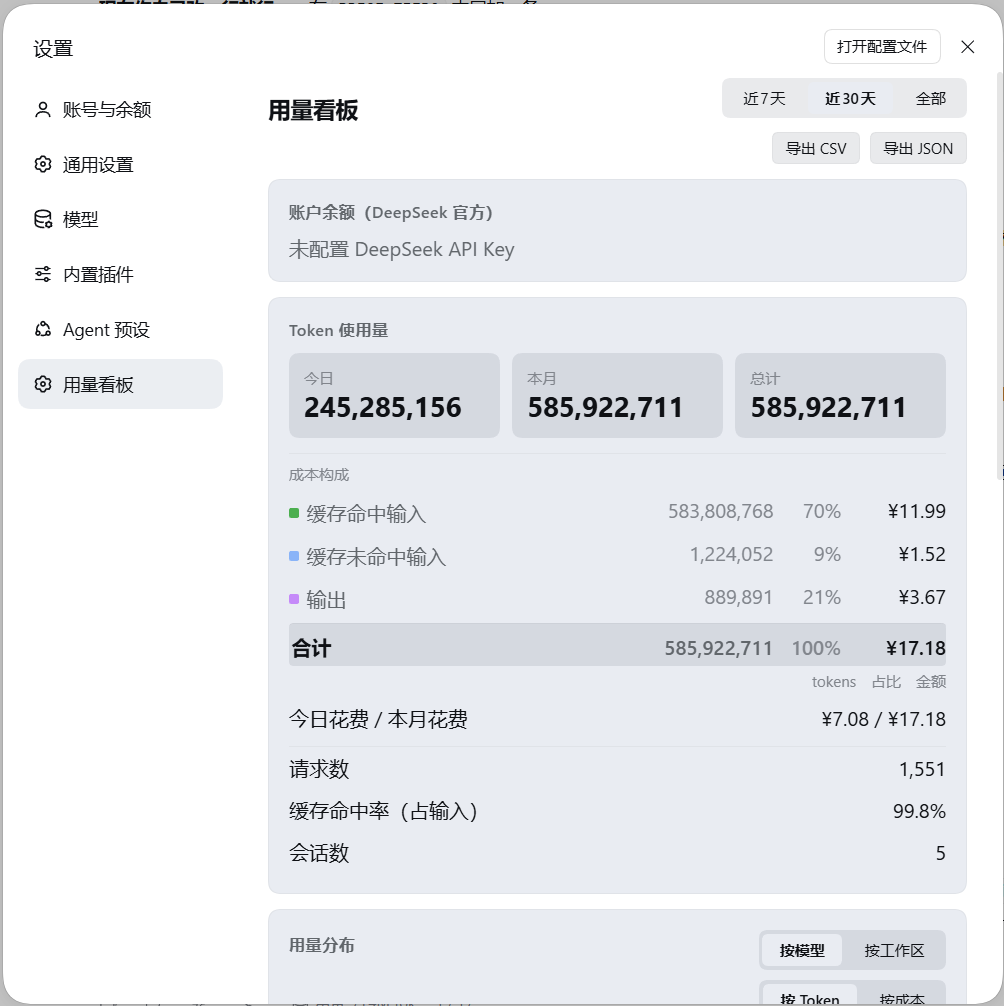
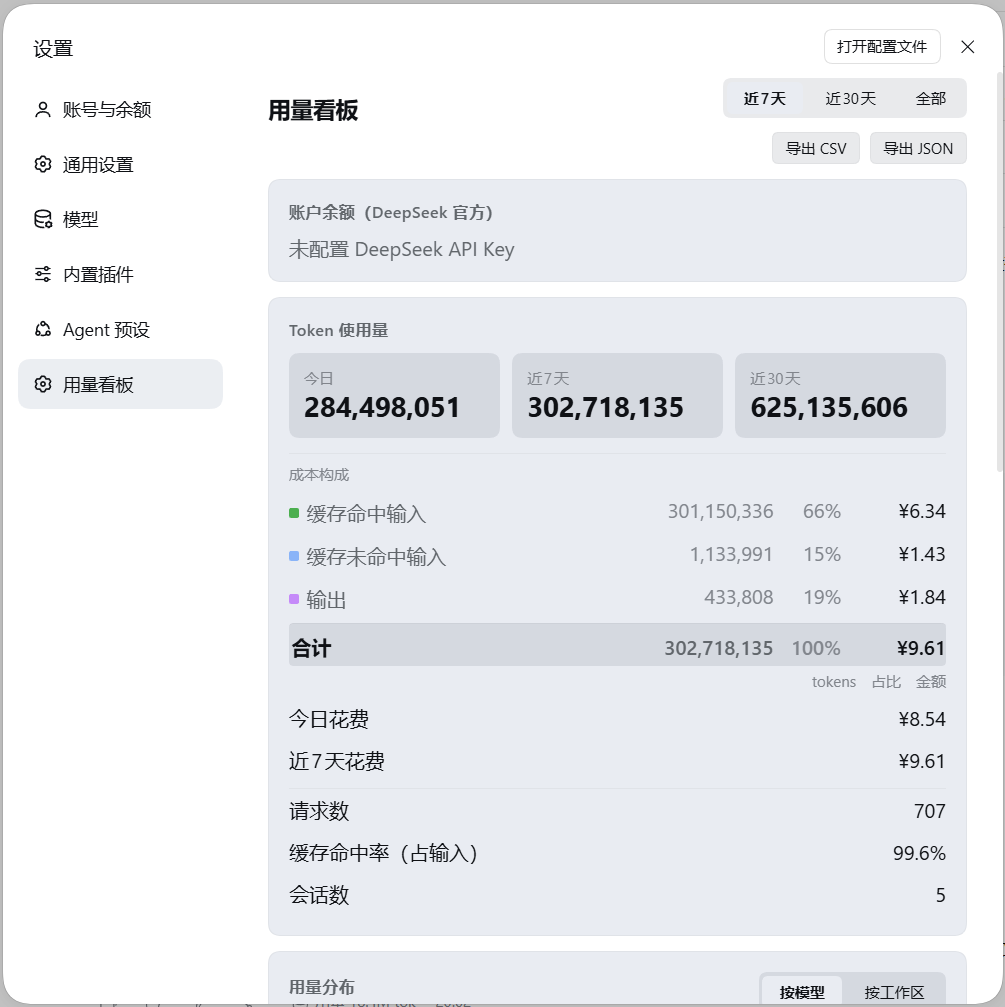
docs: refresh captures again and tighten two claims
Screenshots now show the rolling-window card (今日 / 近7天 / 近30天, three
distinct values) and the spend rows following the selected window, with the cost
total matching the selected period.

Copy: the peak/off-peak bullet now states the rates follow the official page and
that public holidays are not yet modelled, rather than implying the whole scheme
is implemented; the distribution bullet says the curves show approximate share
per group instead of claiming a precise reading.

diff --git a/README.md b/README.md
@@ -14,9 +14,7 @@ DeepSeek Harness 的用量看板：把**账户余额**、**Token 使用量**和*
 
 ### 用量
 
-三张数字卡：**今日、近 7 天、近 30 天**（滚动窗口，含今天往前数）。加请求数、缓存命中率、会话数。顶部可切换全局时间范围：近 7 天 / 近 30 天 / 全部，影响图表和分布。
-
-花费那里是两行：**今日花费始终显示**，另一行**跟随顶部所选档位** —— 选近 7 天显示近 7 天、选近 30 天显示近 30 天、选全部显示总计。这样标签和数字永远是同一个周期，也不会出现两张卡显示同一个数。
+三张数字卡：**今日、近 7 天、近 30 天**（滚动窗口，含今天往前数）。加请求数、缓存命中率、会话数。顶部可切换全局时间范围：近 7 天 / 近 30 天 / 全部，同步改变所显示的图表和分布。
 
 ### 花费
 
@@ -26,7 +24,7 @@ DeepSeek Harness 的用量看板：把**账户余额**、**Token 使用量**和*
 
 计费口径：
 
-- **峰谷价**：高峰为北京时间周一至周五 09:00–12:00、14:00–18:00，其余时段（含周末）减半。判断按事件自身的时间，因此不随查看时间或设备时区变化。
+- **峰谷价**：峰谷定价按照 DeepSeek 官网明示为基准。判断按事件自身的发生时间，因此不随查看时间或设备时区变化，但除周末外的法定节假日谷期定价尚未实现。
 - **按日期分档计价**：DeepSeek 每次调价记为一个新档位，事件用**它自己那天生效的单价**计算。所以后来调价不会改写之前几天的金额。
 - **实际为估算**：插件只读取会话日志里的 token 数，再乘自己的价目表，并不知道 DeepSeek 实际扣了多少。对账请以官方账单为准。
 - **未知模型**会被按 Flash 档计价，并在 `/api/token-dashboard/stats` 的 `unpricedModels` 里列出，以免静默算错。
@@ -35,7 +33,7 @@ DeepSeek Harness 的用量看板：把**账户余额**、**Token 使用量**和*
 
 ### 分布与趋势
 
-「用量分布」可切换**按模型 / 按工作区**，以及**按 Token / 按成本**，配占比条。每种分组各画一条**每日平滑曲线**，直接看出谁在什么时候用得多。
+「用量分布」可切换**按模型 / 按工作区**，以及**按 Token / 按成本**，配占比条。每种分组各由一条**每日曲线**看出大致各自用量。
 
 ### 活跃度
 
